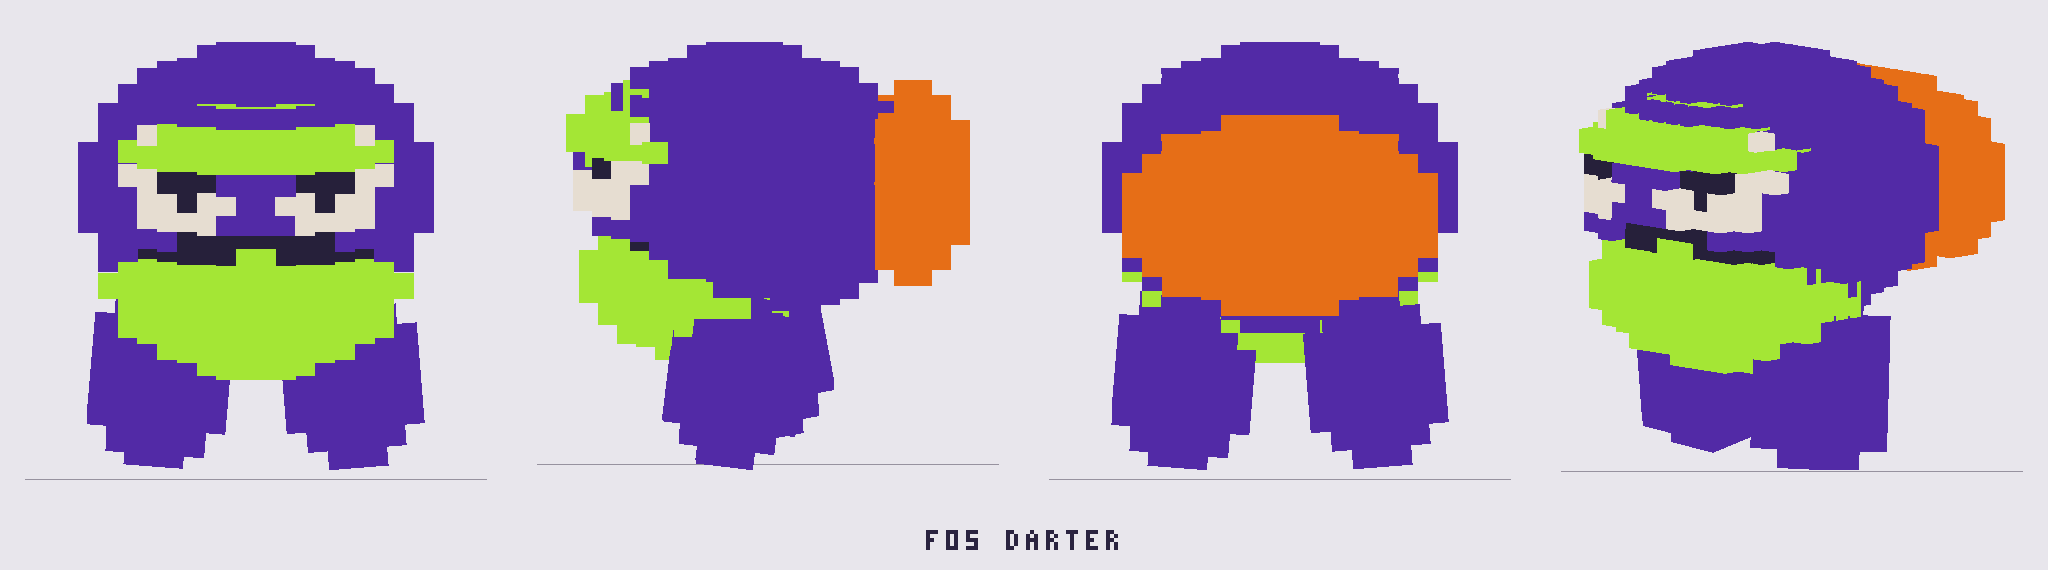
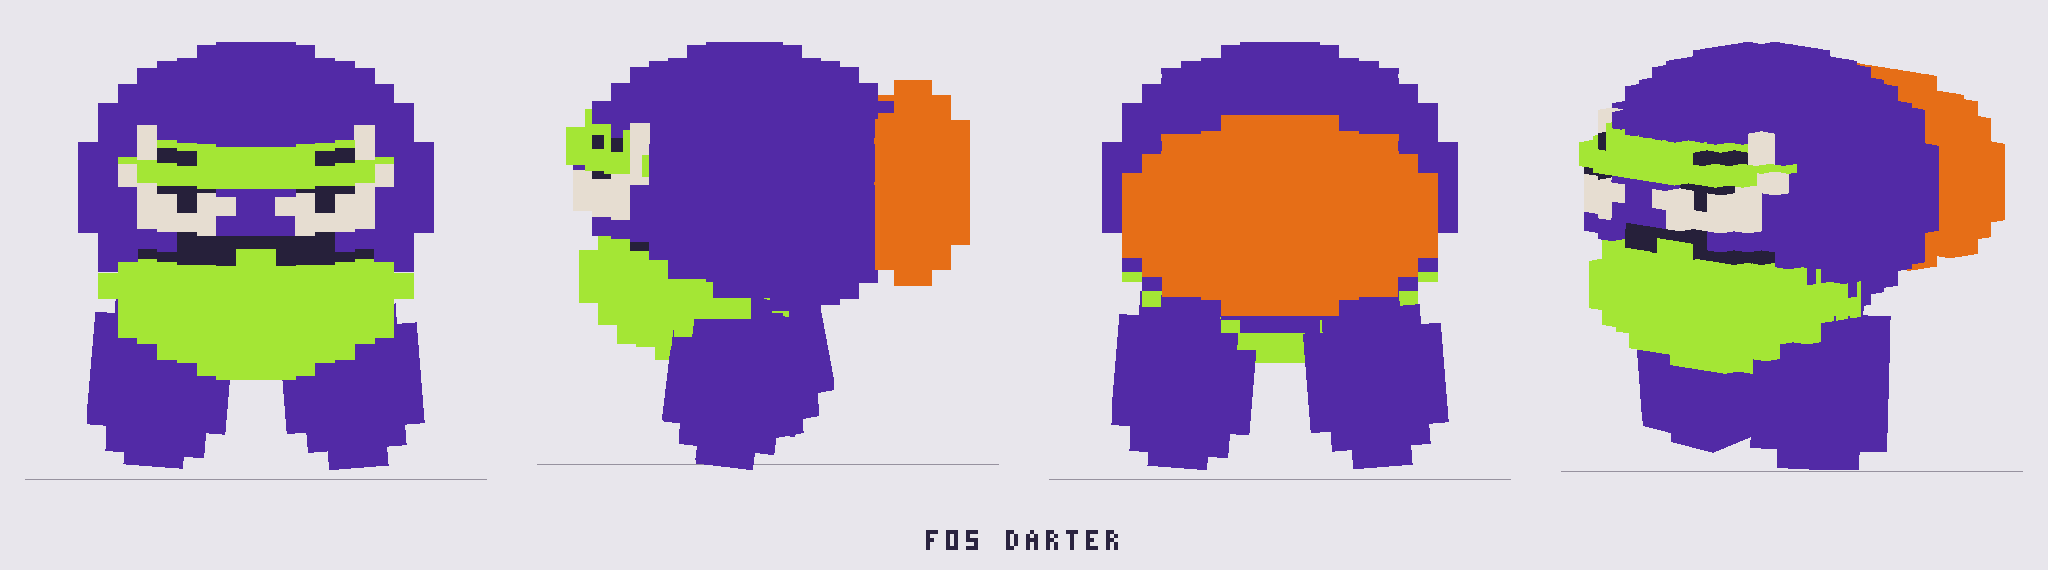
ART-03 round 3: Slowmer eyes, Darter crown

Changed region(s): [[0.0312, 0.1789, 0.2188, 0.3579], [0.75, 0.1789, 0.875, 0.3281], [0.25, 0.1491, 0.3438, 0.3281]]

diff --git a/HANDOFF.md b/HANDOFF.md
@@ -85,6 +85,10 @@ github.com/contrapaul/dart (public), MIT licence.
 
 ## Log
 
+### 2026-11-03: ART-03 round 3 face fixes (Kimi via Pi)
+
+- Slowmer now has two separate cream eyes with centred 2 x 2 ink pupils, and Darter's lowered brow leaves no lime sliver on its crown. Re-rendered and checked all three sheets; all 174 active tests, TypeScript checking and the production build pass.
+
 ### 2026-11-03: ART-03 round 2 review fixes (Kimi via Pi)
 
 - Fixed turnaround raster cracks by overlapping projected faces and sampling
